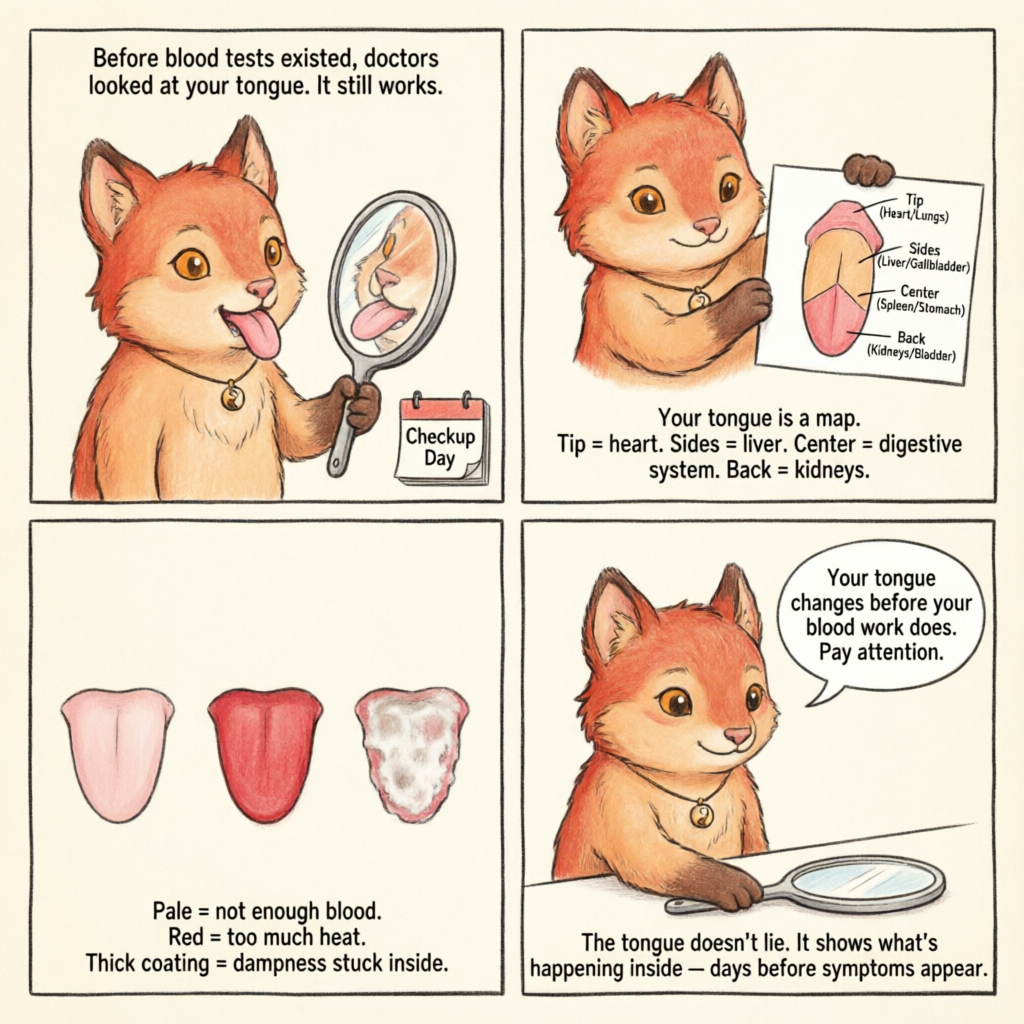
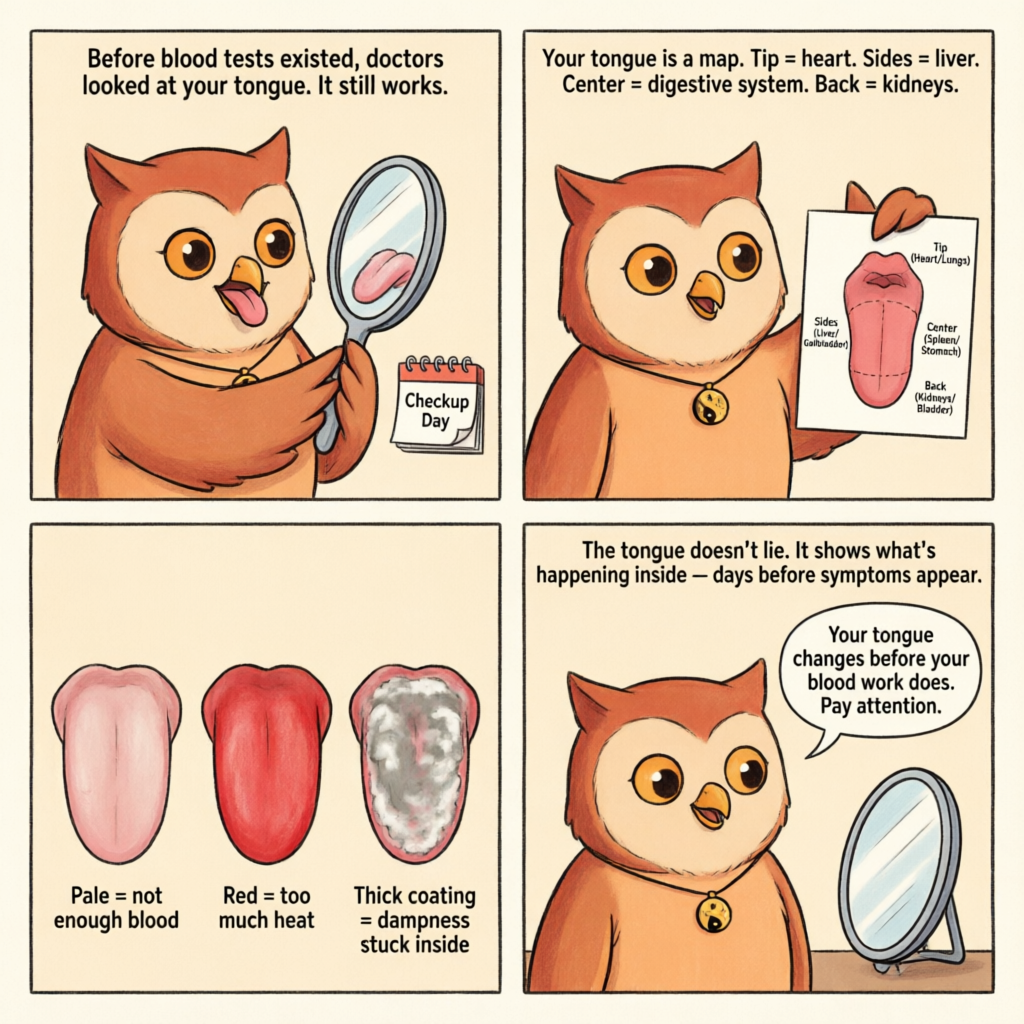
fix: regenerate #15 (was fox) and #18 v4 (was v3) with owl species lock

diff --git a/posts/18-your-body-is-a-kingdom.html b/posts/18-your-body-is-a-kingdom.html
@@ -15,7 +15,7 @@
 <meta name="description" content="In Western medicine, your liver is a factory and your heart is a pump. In Chinese medicine, your body is a kingdom — and every organ is a minister with a job description. Here's why the kingdom model explains your symptoms better than the machine model.">
 <meta property="og:title" content="Your Body Is a Kingdom — Why Your Organs Aren't Just Parts — TCM Way">
 <meta property="og:description" content="Your liver isn't just a filter. Your heart isn't just a pump. In the Huangdi Neijing, your body is a kingdom with five zang organs as department heads. And when one department goes rogue, the whole kingdom feels it.">
-<meta property="og:image" content="https://tcmway.net/images/comic-18-v3.png">
+<meta property="og:image" content="https://tcmway.net/images/comic-18-v4.png">
 <meta property="og:url" content="https://tcmway.net/posts/18-your-body-is-a-kingdom.html">
 <meta property="og:type" content="article">
 <meta property="og:site_name" content="TCM Way">
@@ -176,7 +176,7 @@ var _hmt = _hmt || [];
 
 <p>This isn't metaphor. Each of these pairings has observable correlates. The Liver stores blood — and your eyes (which the Liver "opens into") are the first place you see blood deficiency (blurry vision, floaters). The Kidney stores essence — and your hearing (which the Kidney "opens into") declines when Kidney essence is depleted. The model makes predictions. And those predictions are testable.</p>
 
-<img class="comic-break" src="/images/comic-18-v3.png" alt="Your Body Is a Kingdom — A 4-Panel Comic: (1) Person viewing body as machine with gears (2) Ollie revealing five palaces of Zang organs as kingdom departments (3) Ollie as Emperor coordinating all five organs with golden threads (4) Person understanding body as well-run kingdom" width="680" style="max-width:100%;">
+<img class="comic-break" src="/images/comic-18-v4.png" alt="Your Body Is a Kingdom — A 4-Panel Comic: (1) Person viewing body as machine with gears (2) Ollie revealing five palaces of Zang organs as kingdom departments (3) Ollie as Emperor coordinating all five organs with golden threads (4) Person understanding body as well-run kingdom" width="680" style="max-width:100%;">
   <p class="caption" style="color: #555; font-size: 0.85rem; font-style: italic; margin-top: 0.5rem; text-align: center;">Your organs aren't parts. They're departments in a kingdom that's been running for 2,000 years.</p>
 
 <h2>The Liver: The Minister of Flow (And Why Your Shoulders Know It)</h2>
@@ -324,7 +324,7 @@ The five zang organs all depend on the Heart to unify them. The Heart is the lor
   "description": "In Western medicine, organs are parts. In the Huangdi Neijing, your body is a kingdom — and every organ is a minister. The kingdom model explains why your symptoms cluster across systems.",
   "author": { "@type": "Person", "name": "Ollie" },
   "datePublished": "2026-06-07",
-  "image": "https://tcmway.net/images/comic-18-v3.png",
+  "image": "https://tcmway.net/images/comic-18-v4.png",
   "mainEntityOfPage": {
     "@type": "FAQPage",
     "mainEntity": [
